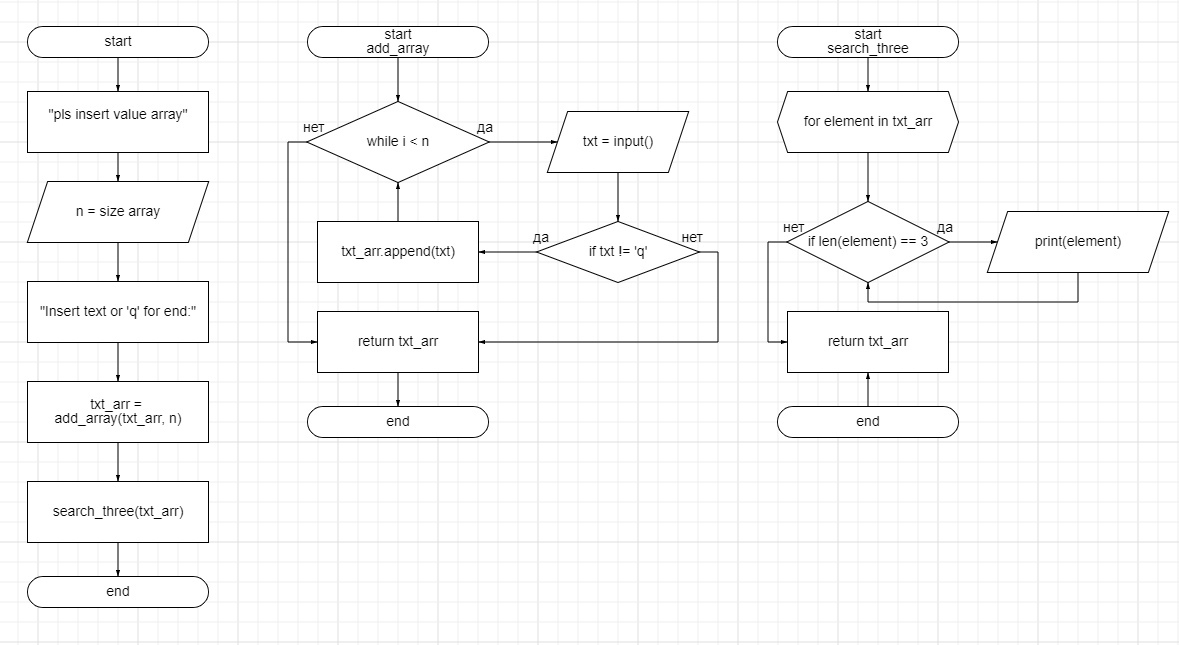
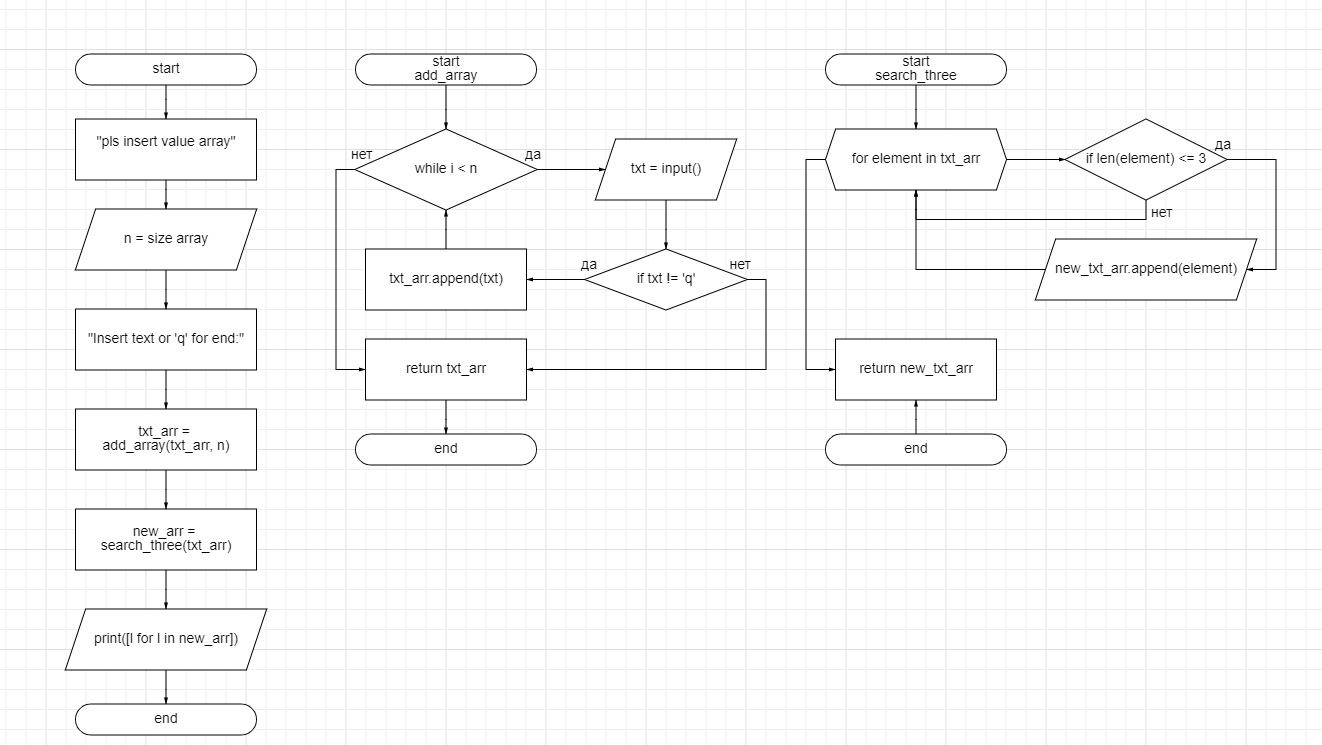
final2 and scheme

diff --git a/kz.py b/kz.py
@@ -17,14 +17,16 @@ def add_array(txt_arr, n):
     return txt_arr
 
 def search_three(txt_arr):
+    new_txt_arr = []
     for element in txt_arr:
-        if len(element) == 3:
-            print(element)
-    return txt_arr
+        if len(element) <= 3:
+            new_txt_arr.append(element)
+    return new_txt_arr
 
 print("pls insert value array:")
 n = int(input())
 print("Insert text or 'q' for end:")
 txt_arr = []
 txt_arr = add_array(txt_arr, n)
-search_three(txt_arr)
+new_arr = search_three(txt_arr)
+print([l for l in new_arr])
